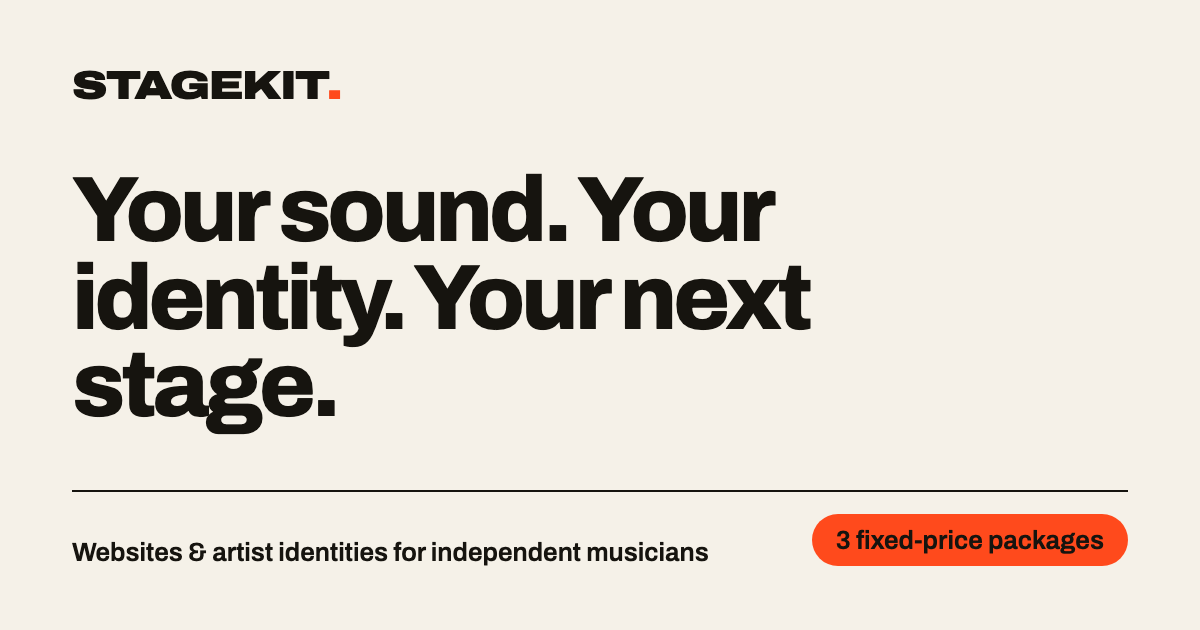
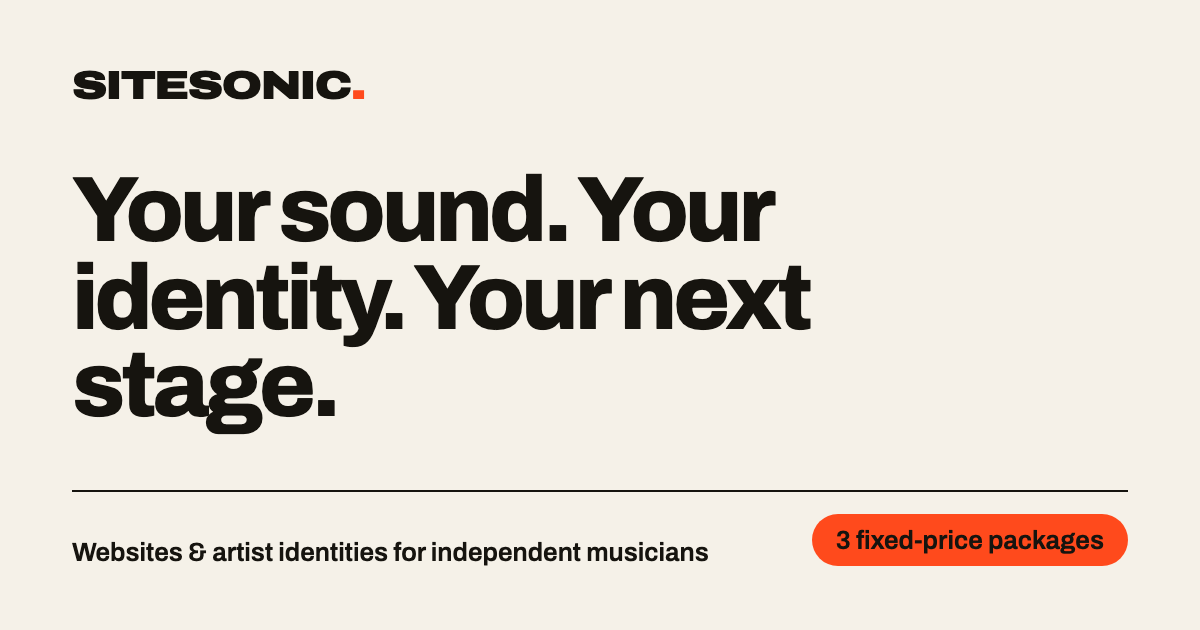
Rename brand from Stagekit to SiteSonic
Update brand name in site config, package metadata, placeholder domain,
README, and regenerate the social sharing image.

Changed region(s): [[0.0925, 0.0905, 0.3083, 0.181]]

diff --git a/src/config/site.ts b/src/config/site.ts
@@ -1,6 +1,6 @@
 /**
  * ─────────────────────────────────────────────────────────────────────────────
- *  STAGEKIT — central site content
+ *  SITESONIC — central site content
  * ─────────────────────────────────────────────────────────────────────────────
  *  Nearly every word on the site lives here. Edit this file to change the brand
  *  name, packages, prices, FAQ, team, contact details, and social links.
@@ -10,10 +10,10 @@
  */
 
 // ── Brand ────────────────────────────────────────────────────────────────────
-// "Stagekit" is a working name. Changing `name` updates the header, footer,
+// Changing `name` updates the header, footer,
 // page title, social metadata, and every sentence that mentions the studio.
 export const brand = {
-  name: 'Stagekit',
+  name: 'SiteSonic',
   tagline: 'Your sound. Your identity. Your next stage.',
   description:
     'Websites, branding, and artist identities for independent musicians. Three fixed-price packages, from a simple artist website to a complete identity and launch system.',

diff --git a/src/styles/global.css b/src/styles/global.css
@@ -1,5 +1,5 @@
 /* ─────────────────────────────────────────────────────────────────────────────
-   Stagekit — global styles
+   SiteSonic — global styles
    One typeface (Archivo, variable weight + width). Warm white, near-black,
    one vivid accent. Thin rules, big type, lots of room.
    ───────────────────────────────────────────────────────────────────────────── */

diff --git a/README.md b/README.md
@@ -1,6 +1,6 @@
-# Stagekit site
+# SiteSonic site
 
-Marketing site and package storefront for Stagekit, a creative studio for independent musicians. It is one landing page with anchored sections and a package request form.
+Marketing site and package storefront for SiteSonic, a creative studio for independent musicians. It is one landing page with anchored sections and a package request form.
 
 Built with [Astro](https://astro.build) as a static site. It ships almost no JavaScript: only the menu, scroll reveal, and request form.
 
@@ -23,7 +23,7 @@ Built with [Astro](https://astro.build) as a static site. It ships almost no Jav
 | Colors, type scale, spacing                                                          | `:root` in `src/styles/global.css`                   |
 | Page section order                                                                   | `src/pages/index.astro`                              |
 
-"Stagekit" is a working name. Changing `brand.name` updates it everywhere, including the footer wordmark, which resizes to fit. Then run `npm run og` to refresh the sharing image.
+Changing `brand.name` updates it everywhere, including the footer wordmark, which resizes to fit. Then run `npm run og` to refresh the sharing image.
 
 ### Replacing image placeholders
 
